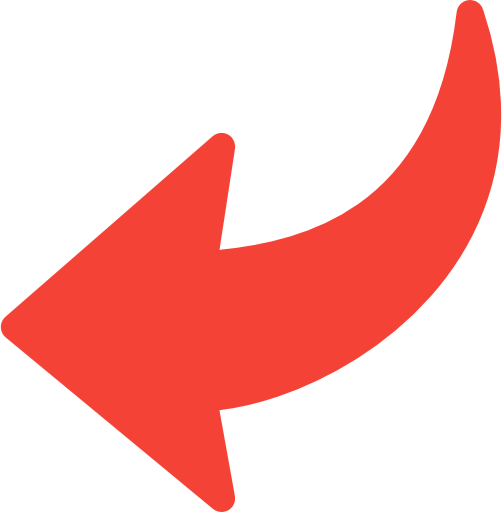
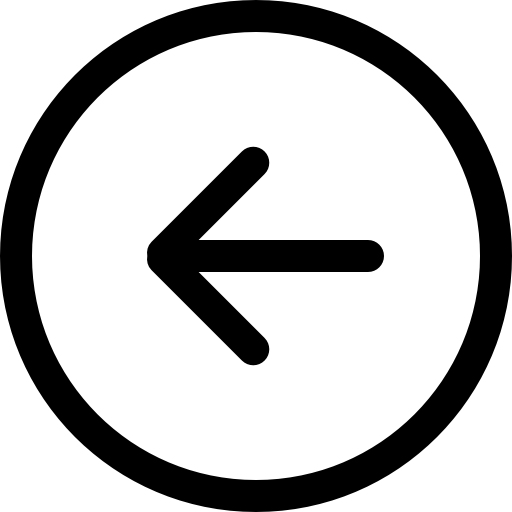
merge con ferDAO

diff --git a/CoilJava/src/InterfazGrafica/SeccionMiColaboracionControlador.java b/CoilJava/src/InterfazGrafica/SeccionMiColaboracionControlador.java
@@ -1,6 +1,9 @@
 package InterfazGrafica;
 
+import DAO.ColaboracionDAO;
 import DTO.AcademicoDTO;
+import DTO.ColaboracionDTO;
+import Utilidades.ErrorDAO;
 import javafx.fxml.FXML;
 import javafx.fxml.FXMLLoader;
 import javafx.scene.control.Alert;
@@ -9,6 +12,7 @@ import javafx.scene.layout.BorderPane;
 import javafx.scene.layout.Pane;
 
 import java.io.IOException;
+import java.util.Optional;
 import java.util.Stack;
 
 public class SeccionMiColaboracionControlador {
@@ -17,6 +21,7 @@ public class SeccionMiColaboracionControlador {
     private BorderPane pnVentanaPrincipal;
     @FXML
     private BorderPane bpMiColaboracion;
+
 
     @FXML
     public void abrirVentanaSolicitudColaboracion () {
@@ -52,6 +57,23 @@ public class SeccionMiColaboracionControlador {
             ventanaActividadesControlador.setAcademicoDTO(this.academicoDTO);
             this.pnVentanaPrincipal.setCenter(apActividades);
         }
+    }
+
+    @FXML
+    private void abrirSeccionEstudiantes () {
+
+    }
+
+    private boolean tieneColaboracionVinculadaOActiva () {
+        ColaboracionDAO colaboracionDAO = new ColaboracionDAO();
+        Optional<ColaboracionDTO> optionalColaboracionDTO = Optional.empty();
+        try {
+            optionalColaboracionDTO = colaboracionDAO.getColaboracionAceptadaPorAcademico(this.academicoDTO);
+        }
+        catch (ErrorDAO error) {
+            mostrarMensajeEmergente(error.getMessage(), Alert.AlertType.ERROR);
+        }
+        return optionalColaboracionDTO;
     }
 
     private void mostrarMensajeEmergente (String mensaje, Alert.AlertType tipoAlerta) {

diff --git a/CoilJava/src/DAO/ColaboracionDAO.java b/CoilJava/src/DAO/ColaboracionDAO.java
@@ -860,4 +860,29 @@ public class ColaboracionDAO implements IColaboracionDAO {
         } while (resultSet.next());
         return numeralia;
     }
+
+    public Optional<ColaboracionDTO> getVinculadaPorAcademico (AcademicoDTO academicoDTO) throws ErrorDAO {
+        String obtenerColaboracionVinculadaAcademicoSQL = "SELECT * FROM vista_colaboracion_con_academico WHERE estado = 'vinculada' AND cedulaProfesional = ?";
+        ColaboracionDTO colaboracion = null;
+
+        try {
+            PreparedStatement obtenerColaboracion = AdministradorBaseDatos.getInstancia()
+                    .prepareStatement(obtenerColaboracionVinculadaAcademicoSQL);
+            obtenerColaboracion.setString(1, academicoDTO.getCedulaProfesional());
+            ResultSet resultado = obtenerColaboracion.executeQuery();
+
+            if (resultado.next()) {
+                colaboracion = convertirColaboracion(resultado);
+                obtenerAcademico(colaboracion, resultado);
+            }
+        }
+        catch (SQLException error) {
+            BITACORA.fatal(error.getMessage());
+            throw new ErrorDAO("Error al obtener la colaboracion en estaod \"vinculada\" por academico", ErrorDAO.Tipo.CONSULTA);
+        }
+        finally {
+            AdministradorBaseDatos.desconectar();
+        }
+        return Optional.ofNullable(colaboracion);
+    }
 }
